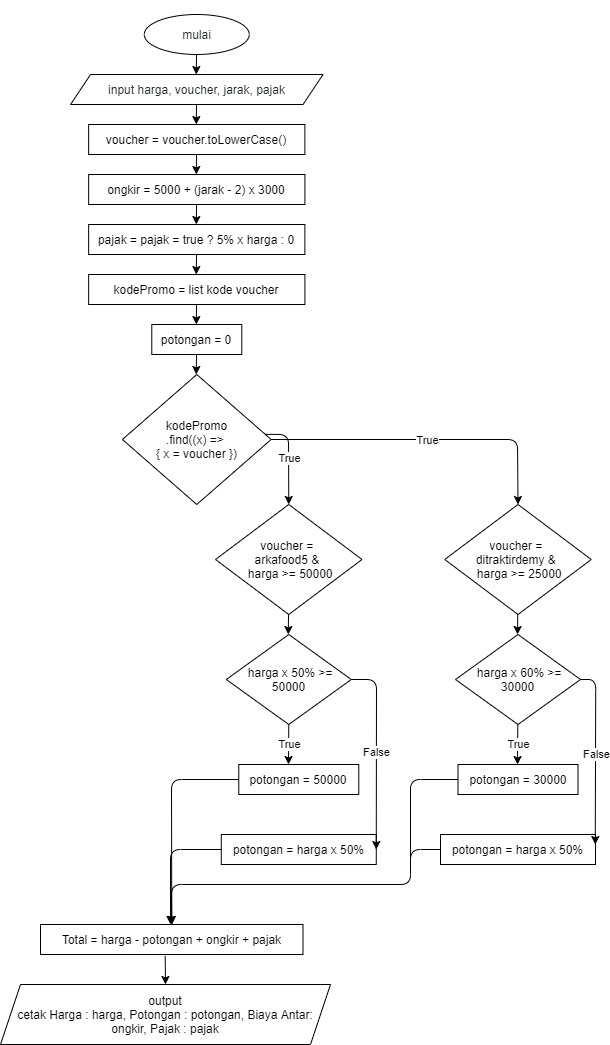
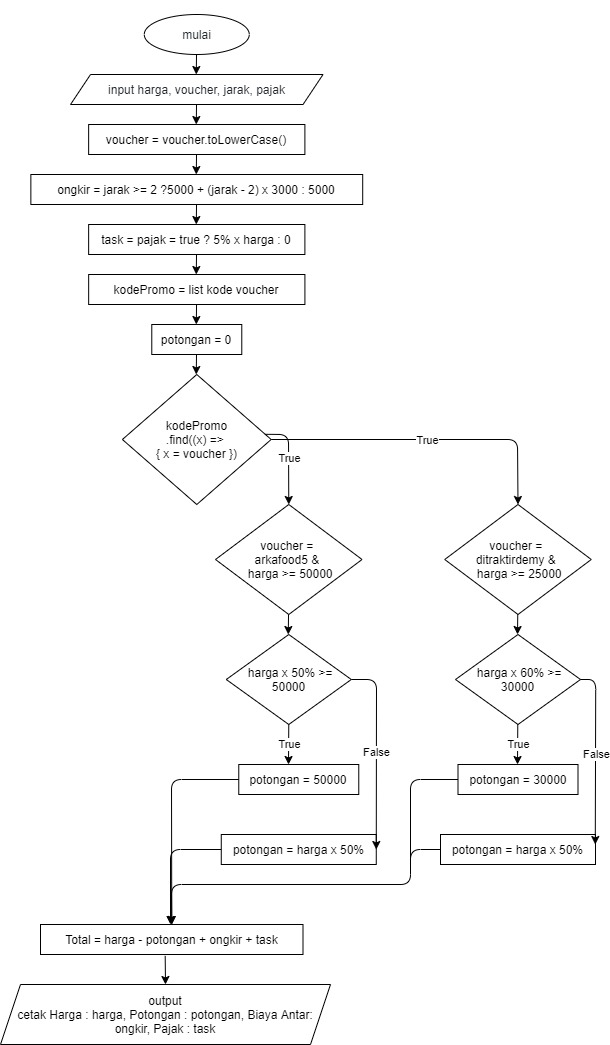
edit arkFood

diff --git a/part4/arkFood.js b/part4/arkFood.js
@@ -1,7 +1,7 @@
 function arkFood(harga, voucher, jarak, pajak) {
   voucher = voucher.toLowerCase();
-  const ongkir = 5000 + (jarak - 2) * 3000;
-  pajak = pajak === true ? (5 / 100) * harga : 0;
+  const ongkir = jarak >= 2? (5000 + (jarak - 2) * 3000) : 5000;
+  const task = pajak === true ? (5 / 100) * harga : 0;
   const kodePromo = ["arkafood5", "ditraktirdemy"];
   let potongan = 0;
 
@@ -25,15 +25,15 @@ function arkFood(harga, voucher, jarak, pajak) {
       }
     }
   }
-  const total = harga - potongan + ongkir + pajak;
+  const total = harga - potongan + ongkir + task;
 
   console.log(`
   Output : Harga : ${harga}
            Potongan : ${potongan}
            Biaya Antar : ${ongkir}
-           Pajak : ${pajak}
+           Pajak : ${task}
            Subtotal : ${total}
            `);
 }
 
-arkFood(75000, "ARKAFOOD5", 5, true);
+arkFood(75000, "ARKAFOOD5", 1, true);
